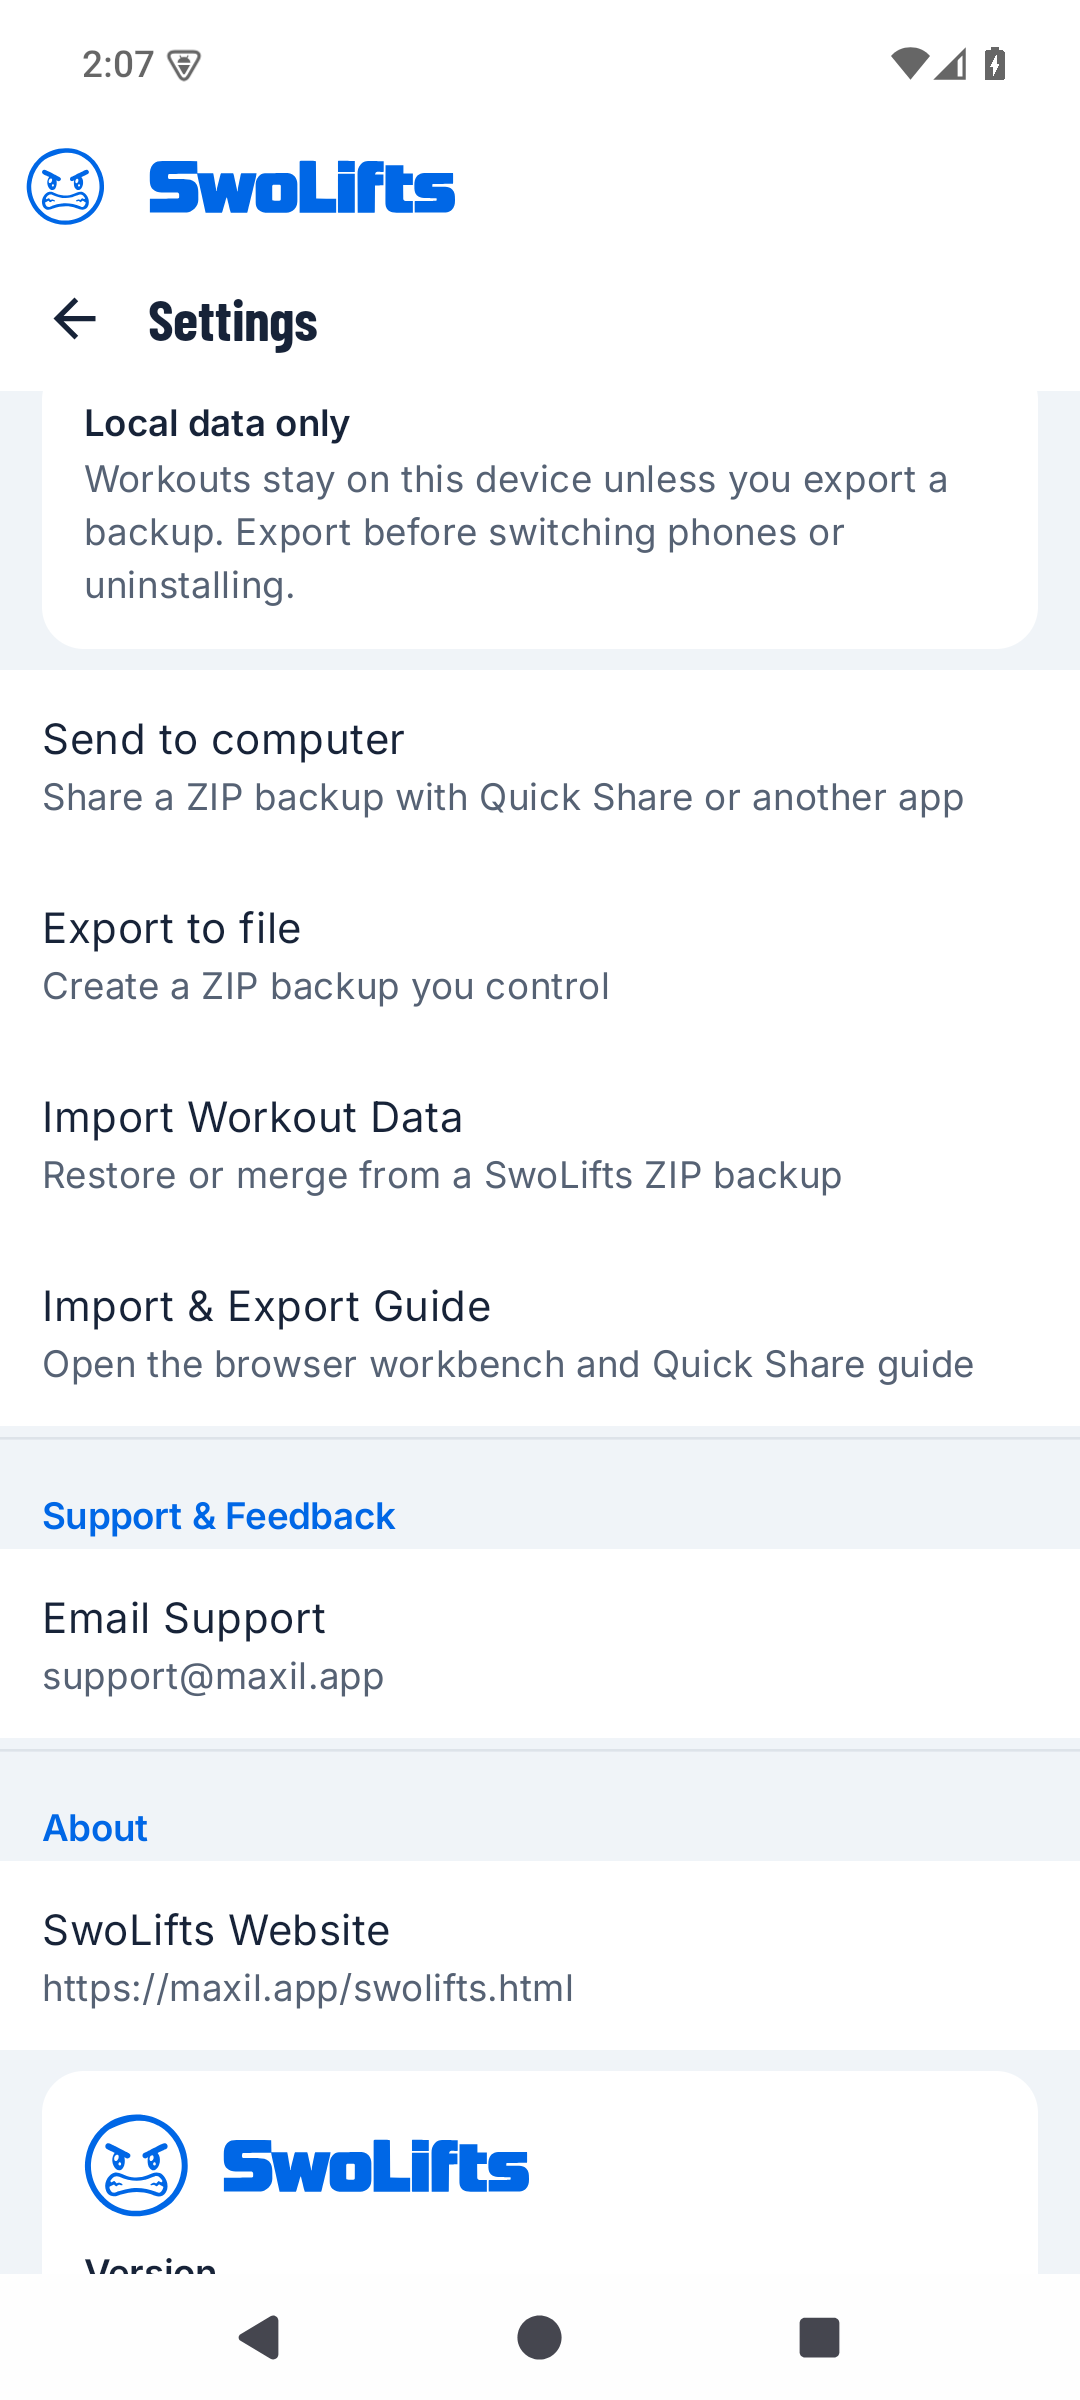
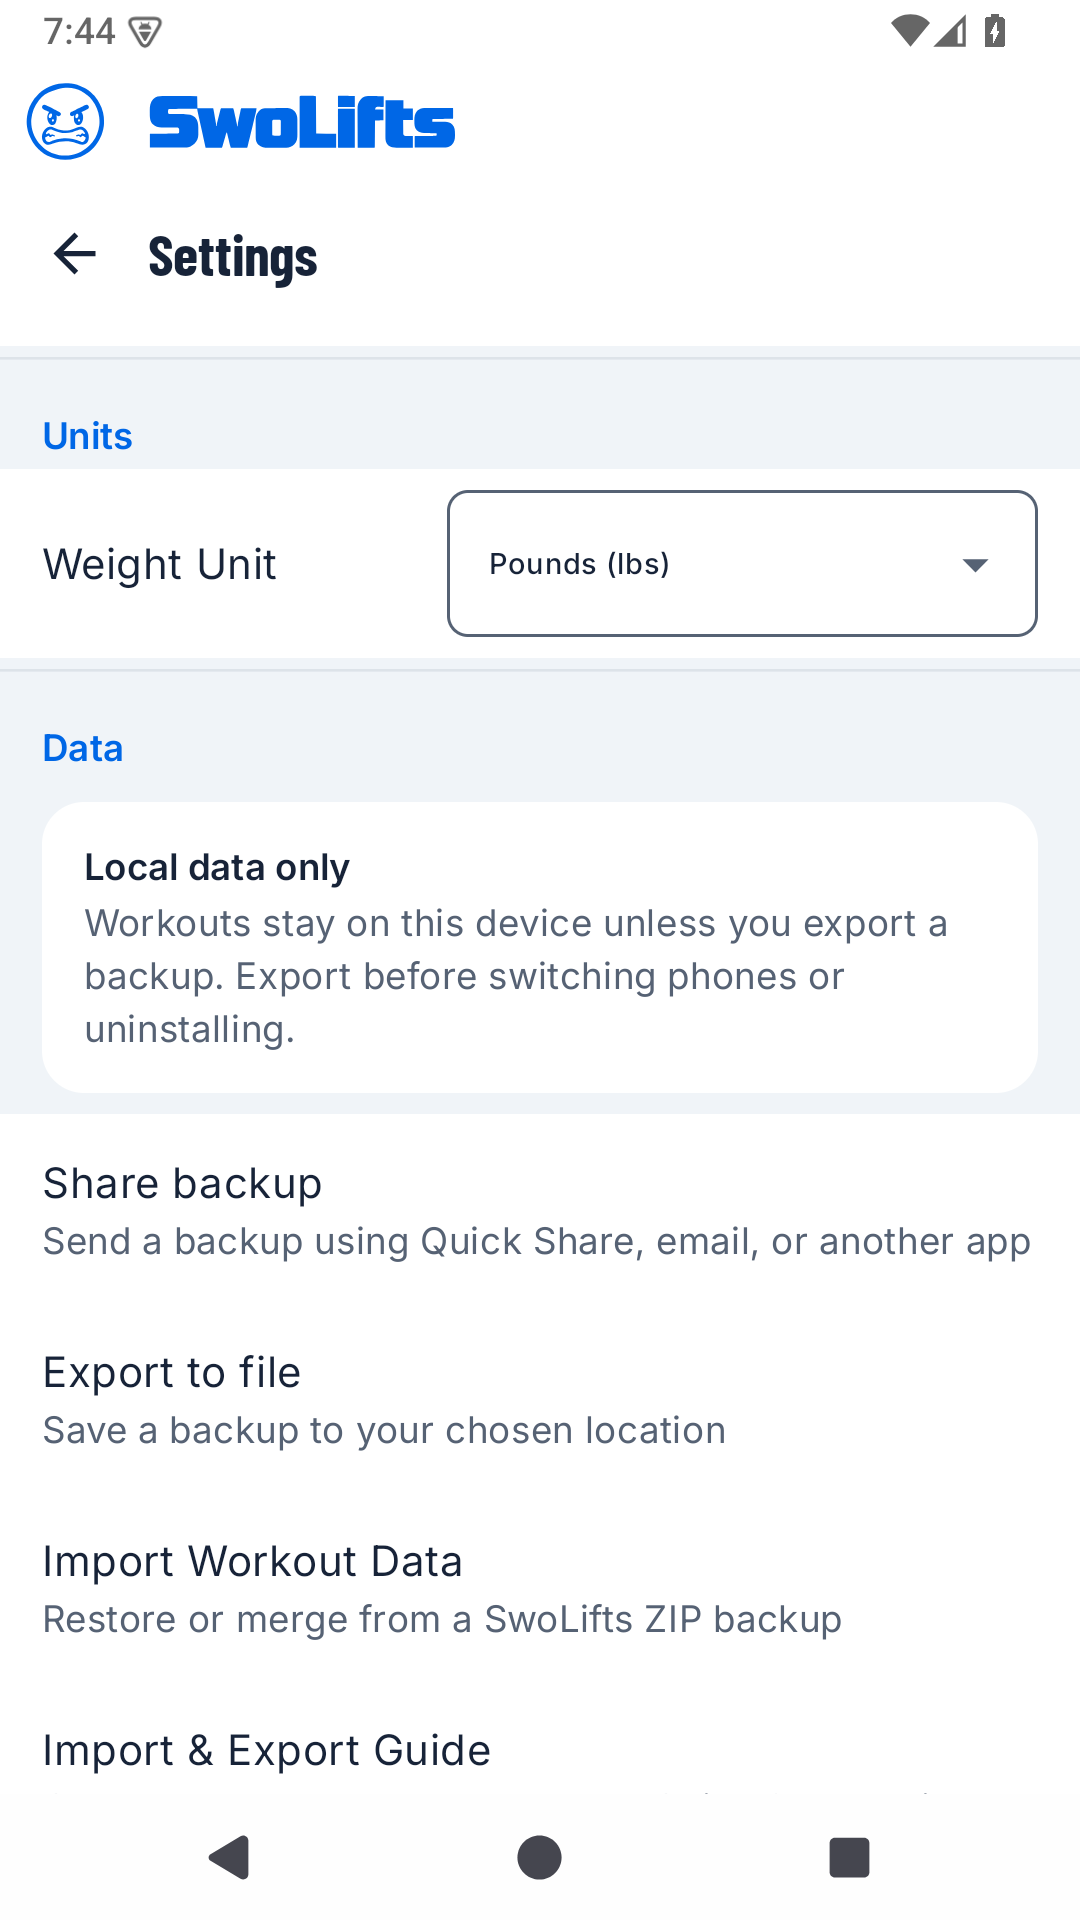
docs(transfer): align guides with Share backup action

diff --git a/src/pages/ImportExport.jsx b/src/pages/ImportExport.jsx
@@ -47,11 +47,11 @@ export default function ImportExport() {
             <p>These phone actions use SwoLifts 1.2.0. Quick Share is provided by Android and Windows; SwoLifts itself does not connect to your computer.</p>
             <ol>
               <li><strong>Set up your PC.</strong> <a href="https://www.android.com/quick-share/with-windows-pc/" target="_blank" rel="noopener noreferrer">Get Quick Share for Windows from Google</a>. Follow its setup and visibility instructions, and keep the phone and PC nearby with Bluetooth and Wi-Fi enabled. <a href="https://support.google.com/android/answer/13801258?hl=en" target="_blank" rel="noopener noreferrer">Google's setup and troubleshooting guide</a> covers device compatibility.</li>
-              <li><strong>Send your backup.</strong> In SwoLifts, open Settings, then Send to computer, choose Quick Share, then choose your PC. Open the received ZIP in the workbench above.</li>
+              <li><strong>Send your backup.</strong> In SwoLifts, open Settings, then Share backup, choose Quick Share, then choose your PC. Open the received ZIP in the workbench above.</li>
               <li><strong>Restore when needed.</strong> Send the original, unchanged SwoLifts ZIP to your phone using Quick Share. Open it with SwoLifts, review the preview and confirm Import backup. You do not need to edit or rebuild the ZIP.</li>
             </ol>
             <div className="template-download-grid">
-              <GuideScreenshot image="transfer/send-to-computer.png" label="Send a backup to your computer" alt="SwoLifts Settings with Send to computer, Export to file and Import Workout Data" caption="Open Settings, then choose Send to computer or Export to file." height={2400} />
+              <GuideScreenshot image="transfer/send-to-computer.png" label="Send a backup to your computer" alt="SwoLifts Settings with Share backup, Export to file and Import Workout Data" caption="Open Settings, then choose Share backup or Export to file." height={1920} />
               <GuideScreenshot image="transfer/import-preview.png" label="Review a backup before restoring" alt="SwoLifts backup restore preview with record counts and an exercise merge warning" caption="Choose your original SwoLifts ZIP, read the preview and confirm only when it is the backup you intend to restore." height={2400} />
             </div>
             <p><strong>USB fallback:</strong> use Export to file, connect the phone with a USB cable and select File transfer on the phone. Copy the ZIP between Downloads folders using Windows File Explorer. Open the returned ZIP with SwoLifts, or select it through Settings, then Import Workout Data.</p>

diff --git a/src/pages/LoggingGuide.jsx b/src/pages/LoggingGuide.jsx
@@ -437,14 +437,14 @@ export default function LoggingGuide() {
                 <h3>Find your backup controls</h3>
                 <ol>
                   <li>Open Settings and scroll to <strong>Data</strong>.</li>
-                  <li>Choose <strong>Export to file</strong> to save a ZIP, or <strong>Send to computer</strong> to share it.</li>
+                  <li>Choose <strong>Export to file</strong> to save a ZIP, or <strong>Share backup</strong> to share it.</li>
                   <li>To restore, choose <strong>Import Workout Data</strong> and select the original SwoLifts backup.</li>
                 </ol>
                 <p><a href="/swolifts-import-export.html#quick-share">See the illustrated transfer and restore guide.</a></p>
               </div>
               <GuideScreenshot image="transfer/send-to-computer.png" label="Find backup and restore controls"
-                alt="SwoLifts Settings Data section with Send to computer, Export to file and Import Workout Data"
-                caption="Scroll down in Settings to find export, sharing and backup restore." height={2400} />
+                alt="SwoLifts Settings Data section with Share backup, Export to file and Import Workout Data"
+                caption="Scroll down in Settings to find export, sharing and backup restore." height={1920} />
             </div>
             <div className="guide-callout">
               <h3>{"Import and export notes"}</h3>

diff --git a/docs/guide-screenshots/README.md b/docs/guide-screenshots/README.md
@@ -6,9 +6,10 @@ and SHA-256 values for the fifteen refreshed/new guide and homepage images.
 The captures use only synthetic bench/row workouts and a sample template.
 No owner data or physical-device package was used.
 
-The existing transfer captures retain their source/evidence in
-[WEB_WORKBENCH_01.md](../WEB_WORKBENCH_01.md). They are reused next to backup
-instructions and in the unreleased website update, without altering their bytes.
+The Settings transfer capture now shows **Share backup** and the destination-neutral
+**Export to file** description; [capture provenance](share-backup.json) records
+its Android source and APK/image hashes. The import-preview capture retains its
+source/evidence in [WEB_WORKBENCH_01.md](../WEB_WORKBENCH_01.md).
 
 Guide images use `GuideScreenshot`: text and image sit beside each other on
 desktop and stack on mobile. Selecting an image opens the shared viewer, with

diff --git a/src/content/updates/website/unreleased.md b/src/content/updates/website/unreleased.md
@@ -29,7 +29,7 @@
 - Follow Quick Share or USB instructions to save a backup on your computer.
 - Restore the original, unchanged SwoLifts ZIP in the Android app when needed. Importing another app's workout history is outside this workflow.
 
-[![SwoLifts 1.2.0 Settings showing Send to computer, Export to file and Import Workout Data](/assets/transfer/send-to-computer.png)](/assets/transfer/send-to-computer.png)
+[![SwoLifts 1.2.0 Settings showing Share backup, Export to file and Import Workout Data](/assets/transfer/send-to-computer.png)](/assets/transfer/send-to-computer.png)
 
 Find these controls in Settings → Data. Select the screenshot to view it full-size,
 or follow the [illustrated backup and restore guide](/swolifts-import-export.html#quick-share).
